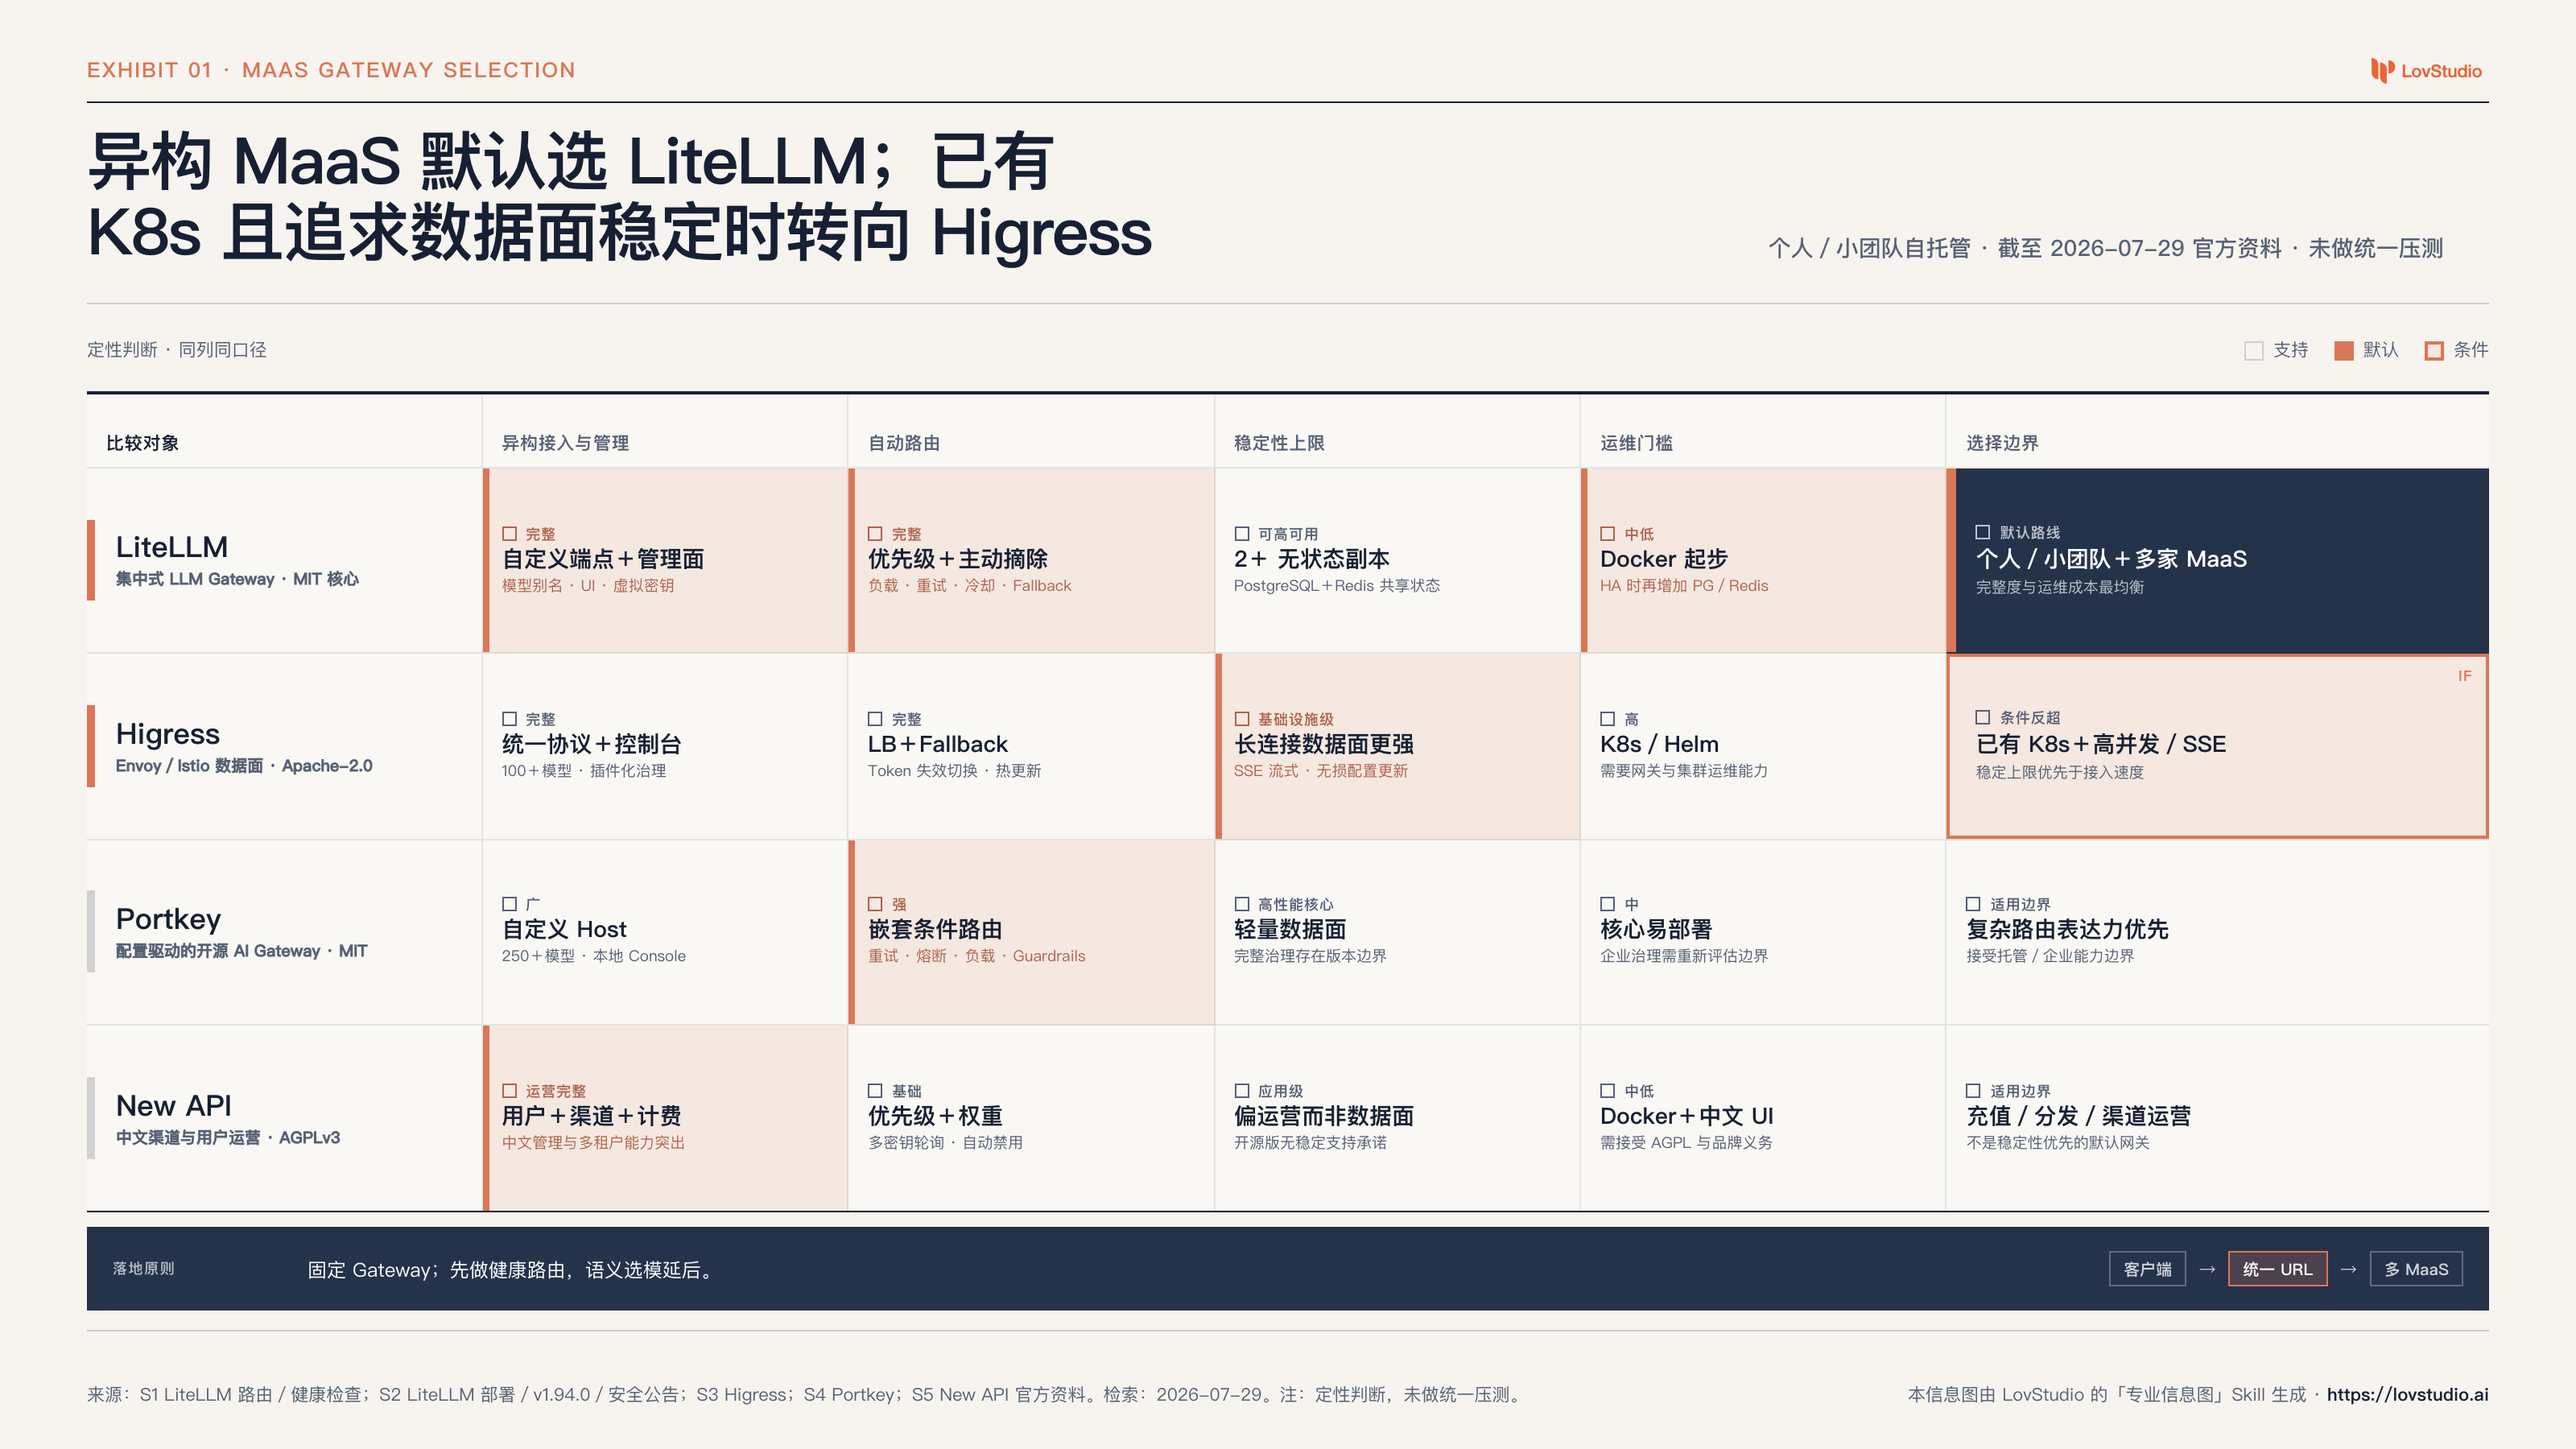
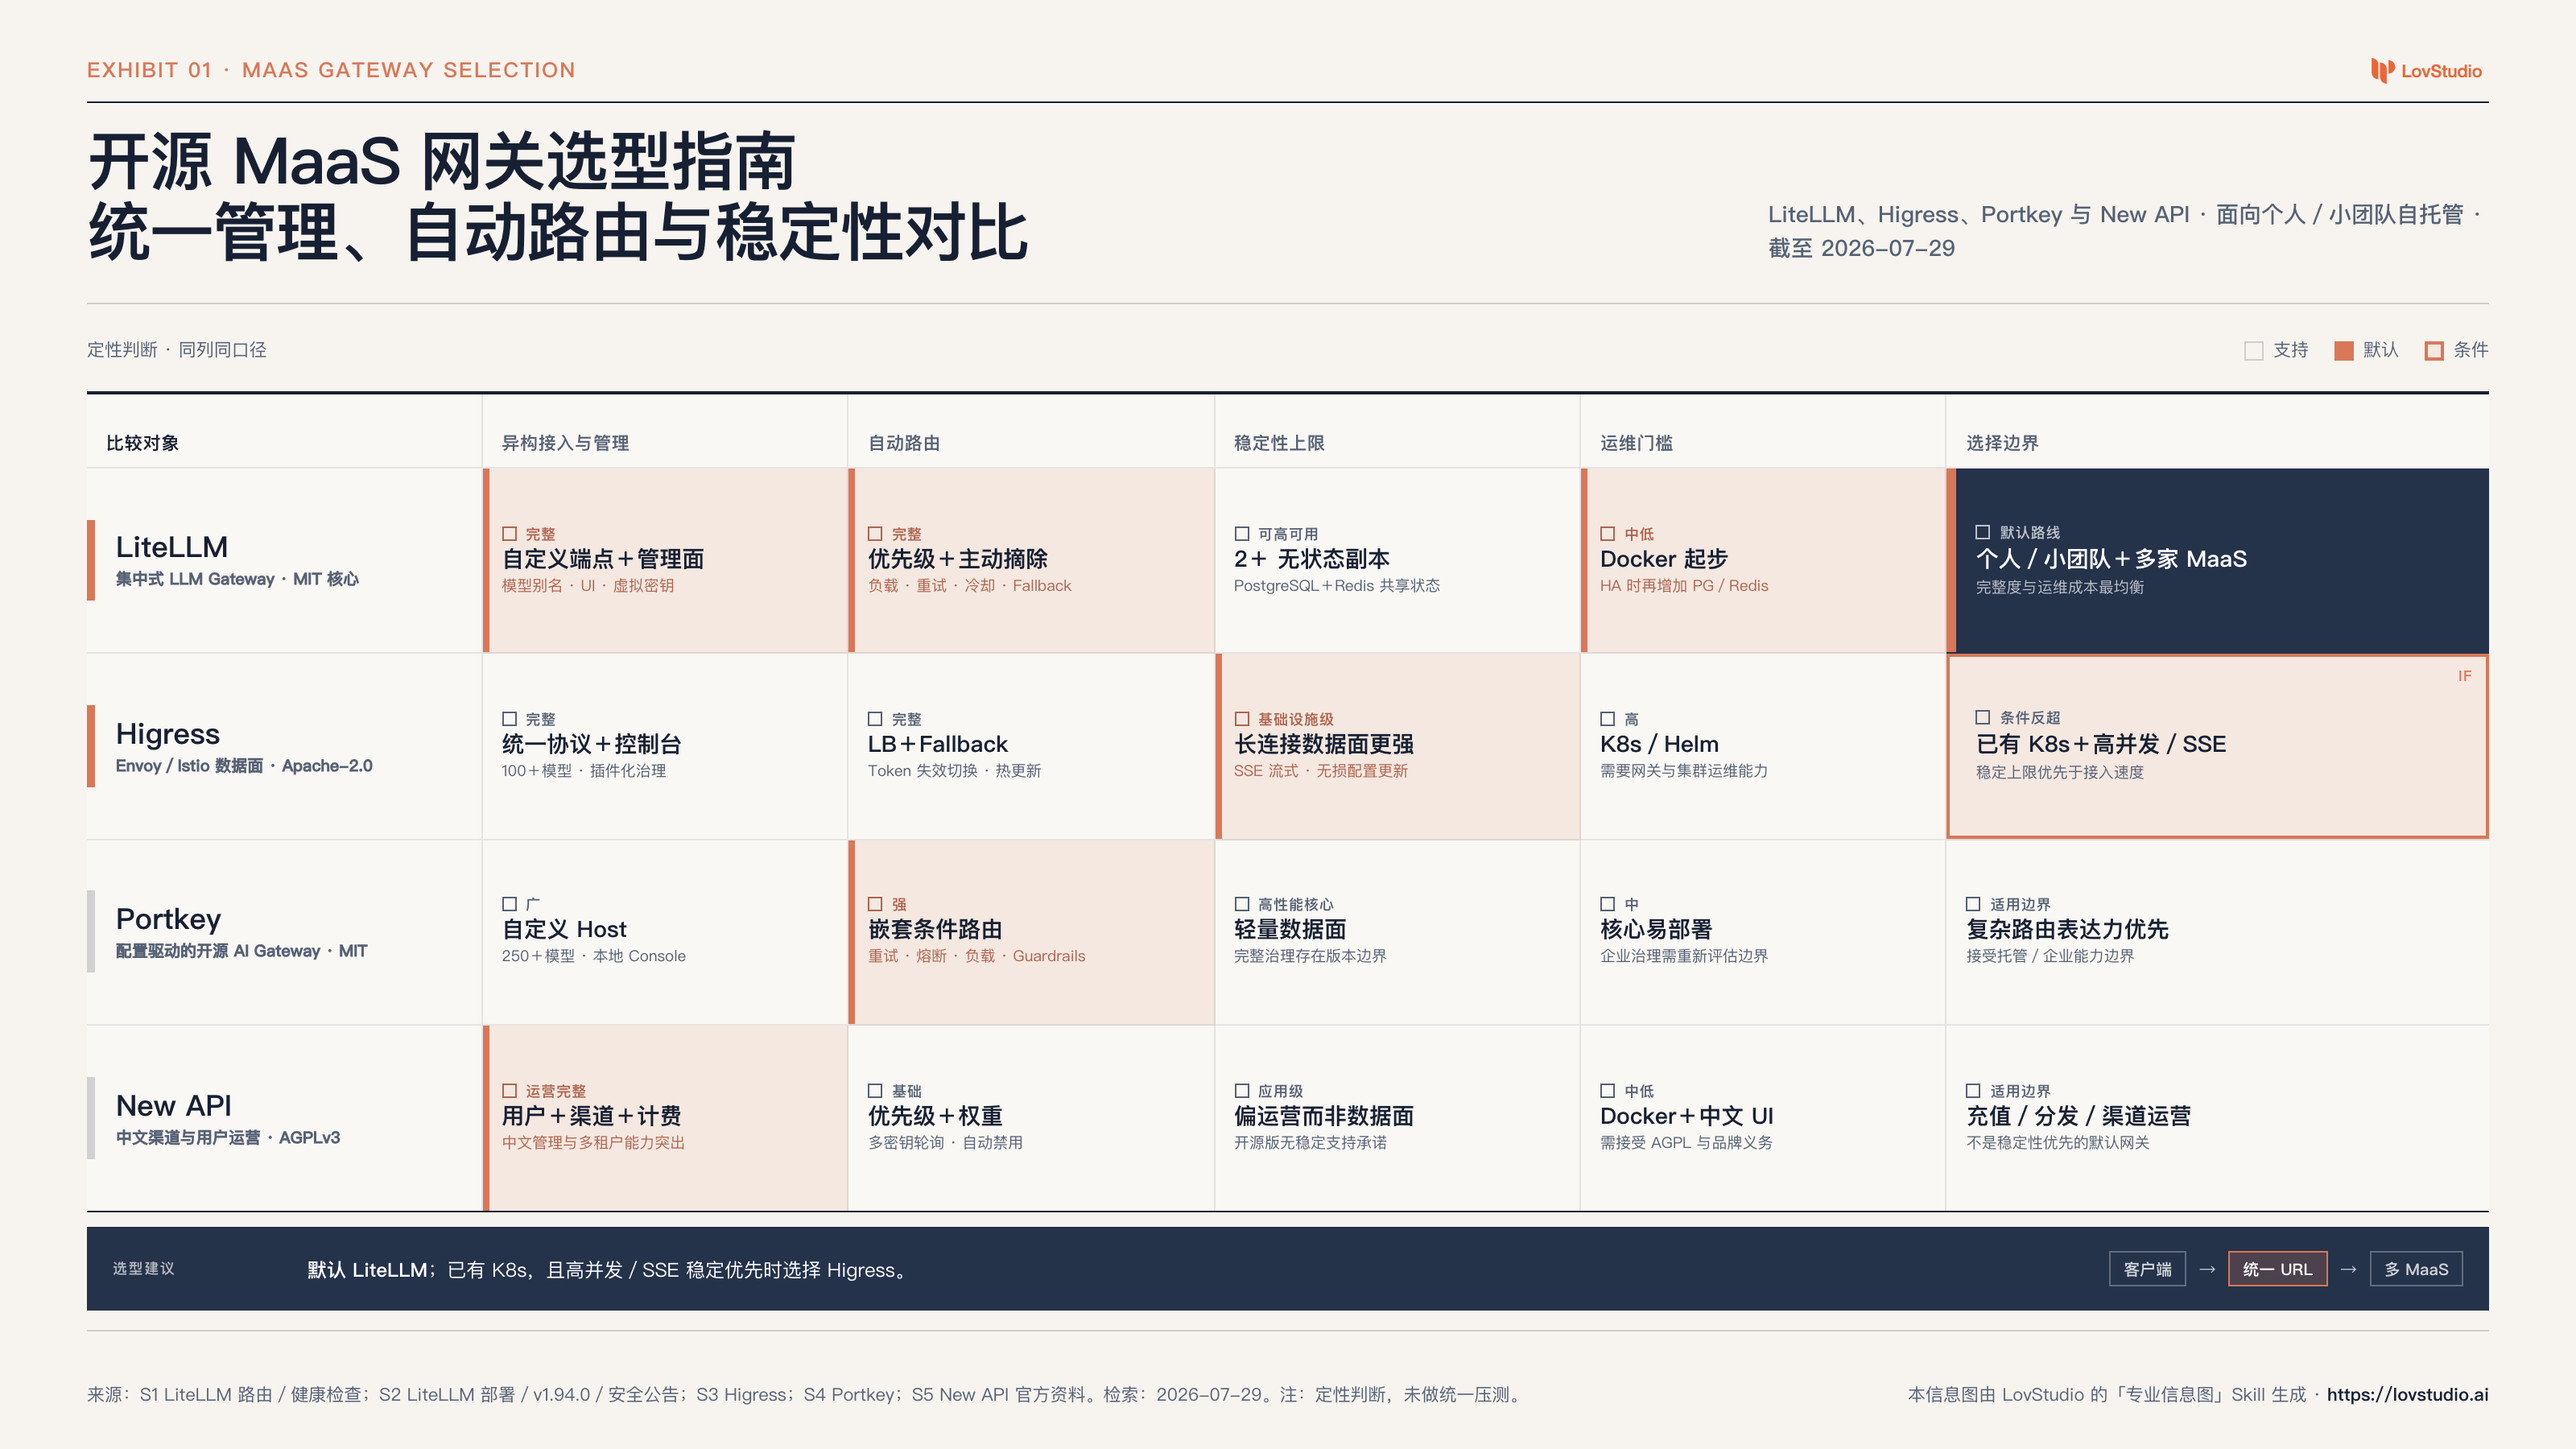
docs: refine MaaS infographic hierarchy

Changed region(s): [[0.0312, 0.0933, 0.4688, 0.1867], [0.6875, 0.1244, 0.9688, 0.1867], [0.125, 0.8711, 0.3438, 0.9022]]

diff --git a/output/professional-infographic/maas-gateway-selection-20260729/poster.html b/output/professional-infographic/maas-gateway-selection-20260729/poster.html
@@ -3,7 +3,7 @@
   <head>
     <meta charset="utf-8" />
     <meta name="viewport" content="width=device-width, initial-scale=1" />
-    <title>异构 MaaS 默认选 LiteLLM；已有 K8s 且追求数据面稳定时转向 Higress</title>
+    <title>开源 MaaS 网关选型指南：统一管理、自动路由与稳定性对比</title>
     <style>
       :root {
         --brand-primary: #24324a;
@@ -98,6 +98,10 @@
         font-weight: 760;
         letter-spacing: -0.025em;
         text-wrap: balance;
+      }
+
+      .poster__title span {
+        display: block;
       }
 
       .deck {
@@ -376,6 +380,11 @@
         text-transform: uppercase;
       }
 
+      .matrix-readout b {
+        color: white;
+        font-weight: 780;
+      }
+
       .route-flow {
         display: flex;
         align-items: center;
@@ -442,10 +451,11 @@
 
       <header class="header" data-region="header">
         <h1 class="poster__title" data-audit="title">
-          异构 MaaS 默认选 LiteLLM；已有 K8s 且追求数据面稳定时转向 Higress
+          <span>开源 MaaS 网关选型指南</span>
+          <span>统一管理、自动路由与稳定性对比</span>
         </h1>
         <p class="deck" data-audit="description">
-          个人／小团队自托管 · 截至 2026-07-29 官方资料 · 未做统一压测
+          LiteLLM、Higress、Portkey 与 New API · 面向个人／小团队自托管 · 截至 2026-07-29
         </p>
       </header>
 
@@ -615,8 +625,8 @@
           </div>
 
           <div class="matrix-readout" data-annotation data-source-ref="S1 S3">
-            <strong>落地原则</strong>
-            <span>固定 Gateway；先做健康路由，语义选模延后。</span>
+            <strong>选型建议</strong>
+            <span><b>默认 LiteLLM</b>；已有 K8s，且高并发／SSE 稳定优先时选择 Higress。</span>
             <span class="route-flow" aria-label="客户端经统一网关路由到多个 MaaS">
               <span class="route-node">客户端</span>
               <span>→</span>

diff --git a/output/professional-infographic/maas-gateway-selection-20260729/brief.md b/output/professional-infographic/maas-gateway-selection-20260729/brief.md
@@ -1,6 +1,6 @@
 # Infographic brief
 
-Working title: 异构 MaaS 默认选 LiteLLM；已有 K8s 且追求数据面稳定时转向 Higress
+Working title: 开源 MaaS 网关选型指南：统一管理、自动路由与稳定性对比
 Template: comparison-matrix
 Evidence mode: qualitative
 
@@ -13,6 +13,8 @@ Evidence mode: qualitative
 ## Governing message
 
 异构 MaaS 默认选 LiteLLM；已有 K8s 且追求数据面稳定时转向 Higress。
+
+Presentation rule: 大标题说明本图的用途与主题；选型建议置于矩阵尾部，作为完成比较后的决策读出。
 
 ## Supporting claims
 
@@ -94,8 +96,9 @@ Evidence mode: qualitative
 ## Copy map
 
 - Figure label: Exhibit 01 · MaaS Gateway Selection
-- Action title: 异构 MaaS 默认选 LiteLLM；已有 K8s 且追求数据面稳定时转向 Higress
-- Optional deck: 面向个人/小团队自托管；结论基于截至 2026-07-29 的官方功能与架构资料，不含统一压测。
+- Display title: 开源 MaaS 网关选型指南：统一管理、自动路由与稳定性对比
+- Optional deck: LiteLLM、Higress、Portkey 与 New API；面向个人/小团队自托管；资料截至 2026-07-29。
+- Tail recommendation: 默认 LiteLLM；已有 K8s，且高并发/SSE 稳定优先时选择 Higress。
 - Visual labels: 异构接入与管理、自动路由、稳定性上限、运维门槛、选择边界。
 - Source / note: S1–S5 官方文档清单、检索日期和定性判断限定。
 
@@ -108,10 +111,11 @@ Evidence mode: qualitative
 
 ## Human review
 
-- [x] 标题可在五秒内复述。
+- [x] 标题可在五秒内说明本图的用途与比较主题。
+- [x] 具体选型建议位于尾部区域，符合“先比较、后建议”的阅读顺序。
 - [x] 矩阵不依赖逐字阅读即可看出 LiteLLM 与 Higress 的选择边界。
 - [x] 橙色只表示决策性差异。
 - [x] 每个可见判断都映射到 S1–S5。
 - [x] 原图与 480×270 缩略图均无溢出、空洞容器或伪数据图形。
 
-Review evidence: 2026-07-29 检查 3200×1800 `poster.png` 原图及 480×270 缩略图；原图中的全部标签、来源和限定可读，缩略图中行动标题、LiteLLM 深色默认决策格与 Higress 橙色条件决策格仍可快速识别。
+Review evidence: 2026-07-29 检查 3200×1800 `poster.png` 原图及 480×270 缩略图；大标题稳定分成两行，先说明“开源 MaaS 网关选型指南”，再交代统一管理、自动路由与稳定性三个比较维度；具体建议位于矩阵尾部深色区域，原图可直接阅读，缩略图仍能辨认“先比较、后建议”的层级；全部矩阵标签、来源和限定无溢出。
